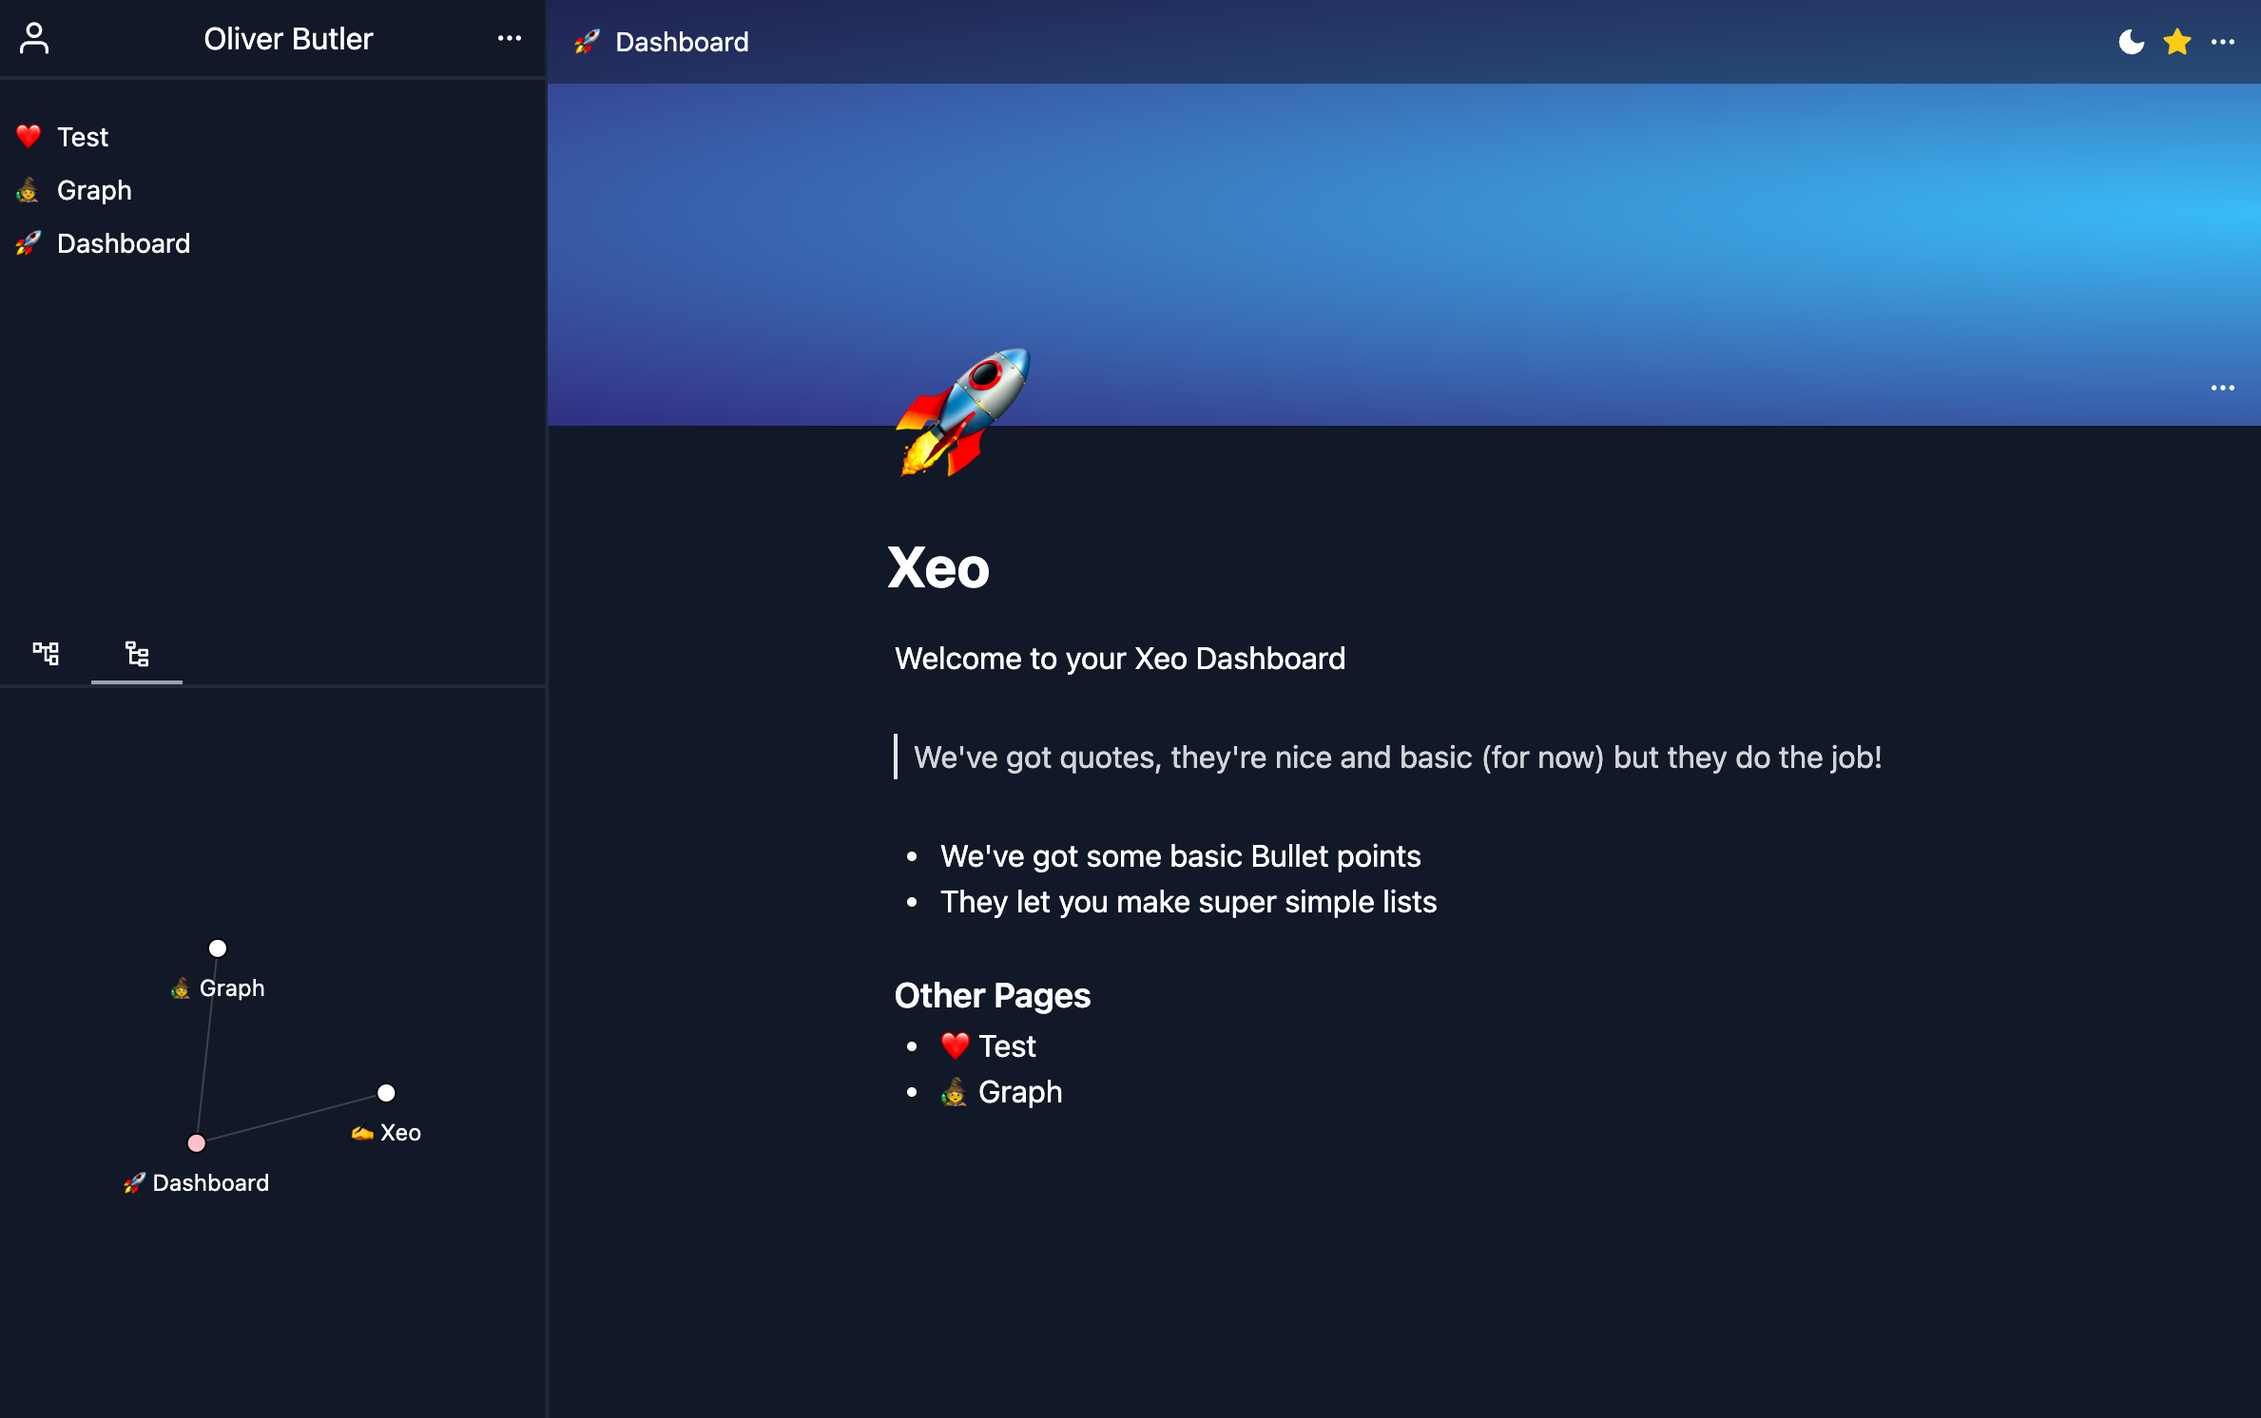
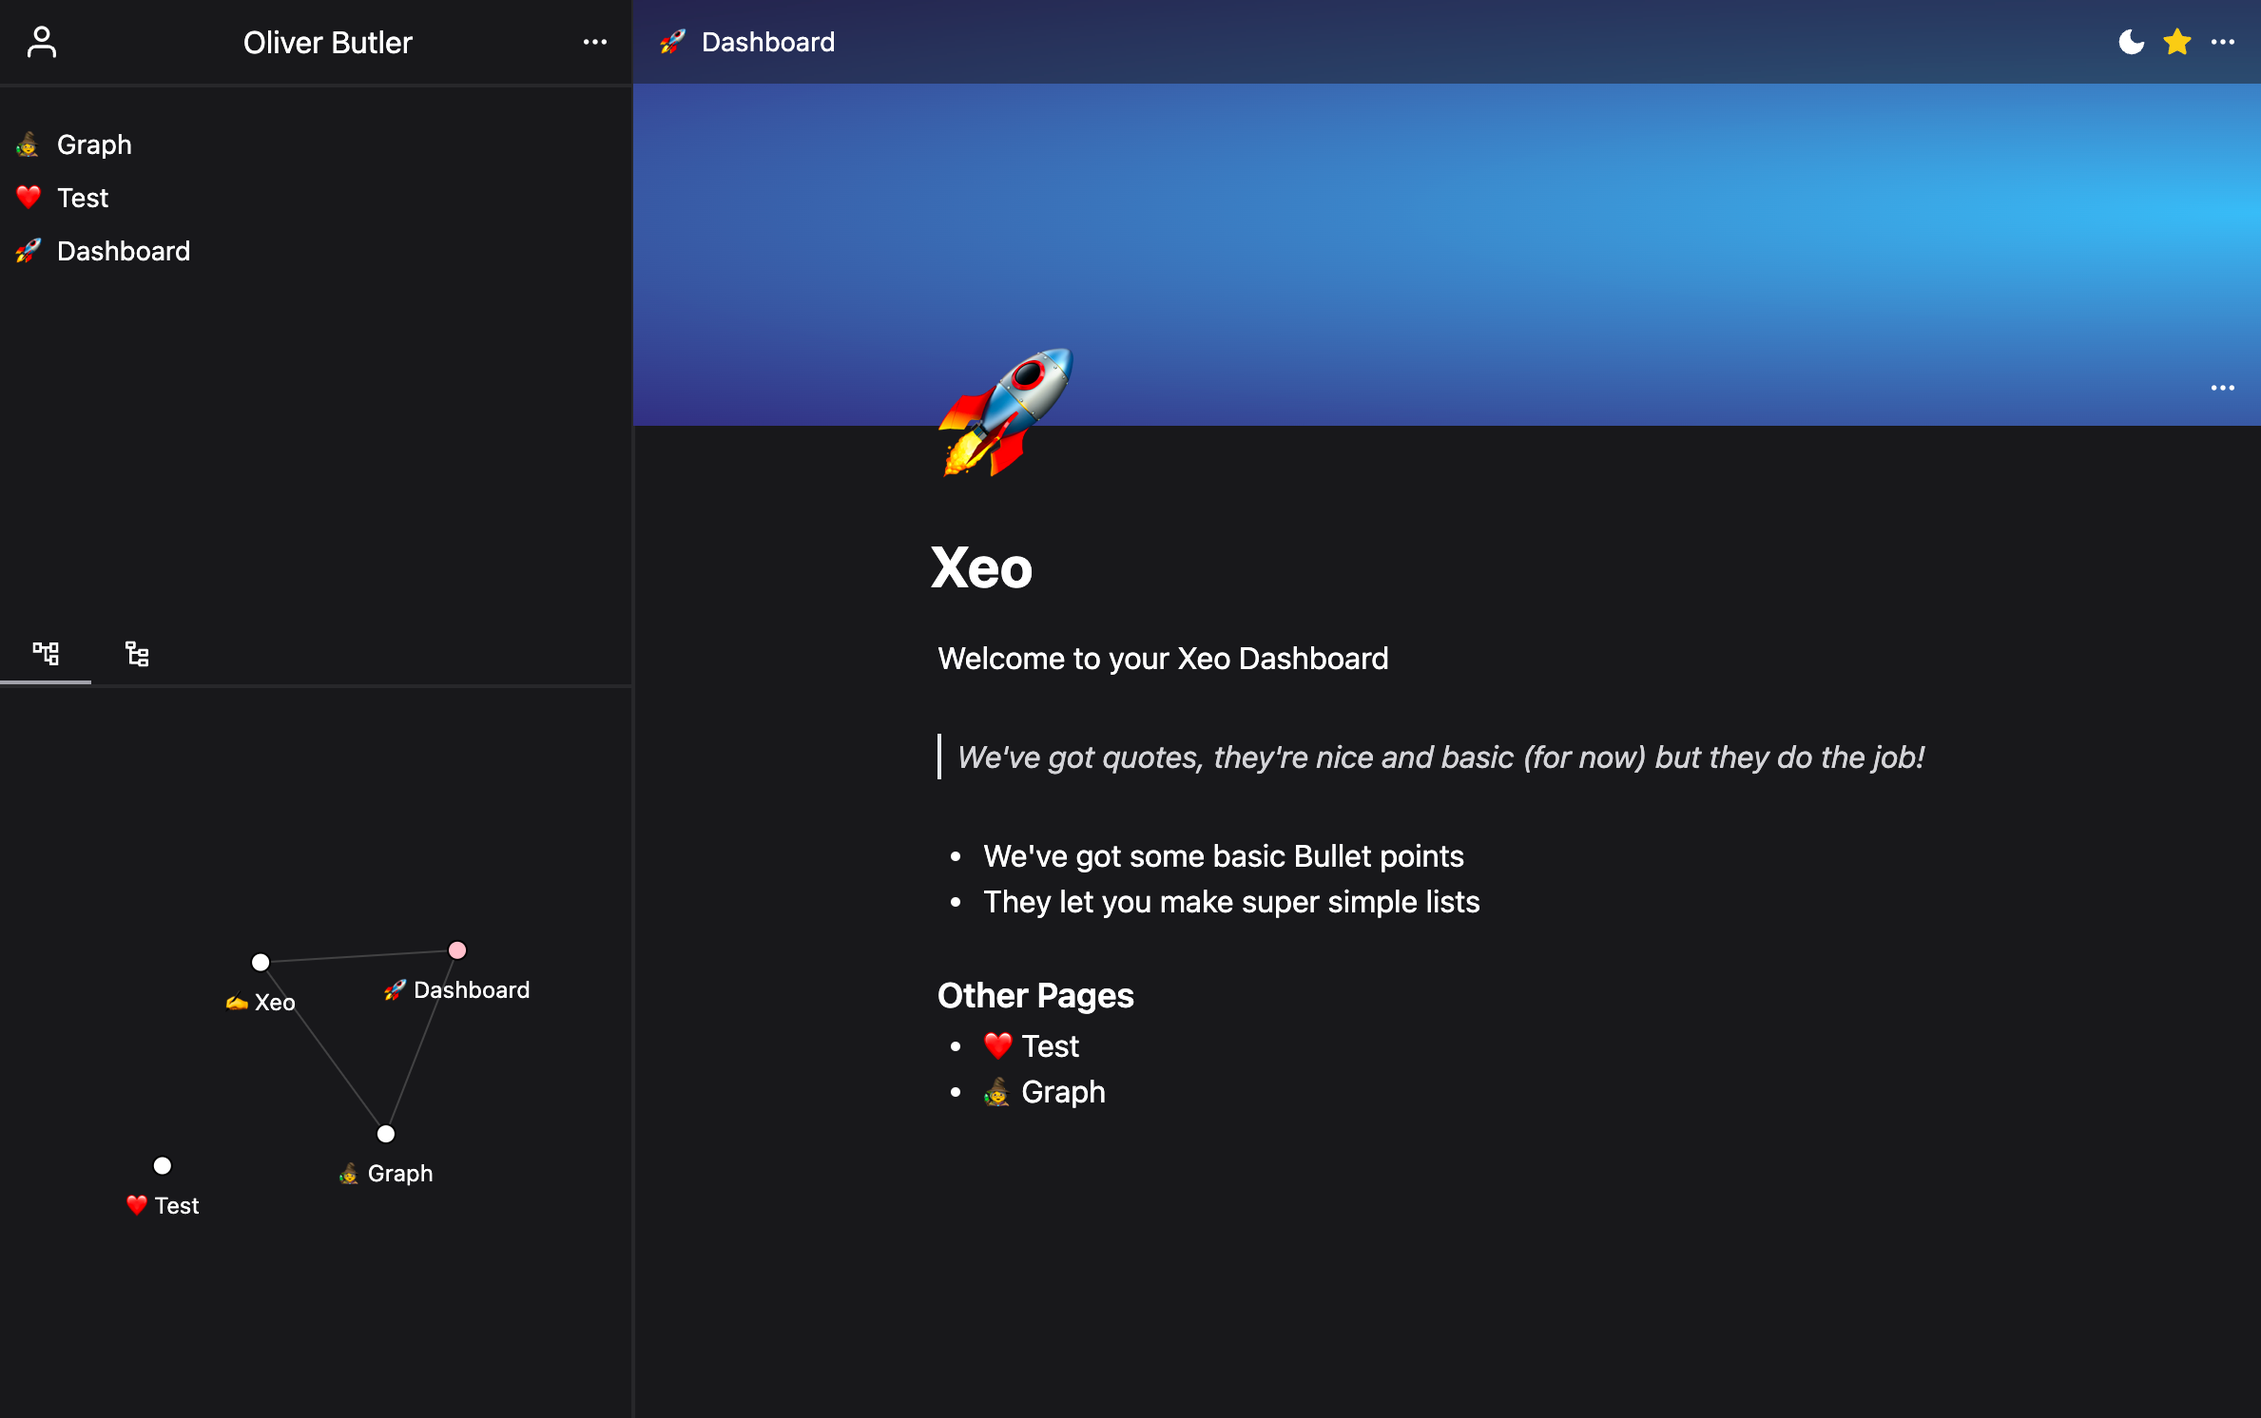
use primary and secondary everywhere

diff --git a/apps/client/components/UI/Dropdown/Dropdown.tsx b/apps/client/components/UI/Dropdown/Dropdown.tsx
@@ -1,6 +1,7 @@
 import { Menu, Transition } from '@headlessui/react';
 import classNames from 'classnames';
 import { Fragment } from 'react';
+import { Clickable } from '../Clickable/Clickable';
 
 type DropdownItem = {
   text: string;
@@ -35,7 +36,7 @@ export const Dropdown: React.FunctionComponent<Props> = ({
       >
         <Menu.Items
           className={classNames(
-            'w-44 bg-white dark:bg-neutral-900 divide-y divide-gray-100 rounded-md shadow-lg ring-1 ring-black ring-opacity-5 focus:outline-none py-1 z-50 ',
+            'w-44 bg-white dark:bg-dark-900 divide-y divide-dark-100 rounded-md shadow-lg ring-1 ring-black ring-opacity-5 focus:outline-none py-1 z-50 ',
             { 'absolute left-1': showDirection === 'left' },
             { 'absolute right-1': showDirection === 'right' },
             className
@@ -49,14 +50,15 @@ export const Dropdown: React.FunctionComponent<Props> = ({
                   onClick={item.onClick}
                 >
                   {({ active }) => (
-                    <a
-                      className={classNames(
-                        'cursor-pointer hover:bg-gray-100rounded-sm flex items-center w-full px-2 py-1 text-sm text-gray-800 dark:text-white',
-                        { 'bg-gray-100': active }
-                      )}
-                    >
-                      <span className="mr-2">{item.logo}</span> {item.text}
-                    </a>
+                    <Clickable active={active}>
+                      <a
+                        className={classNames(
+                          'flex items-center w-full px-2 py-1 text-sm'
+                        )}
+                      >
+                        <span className="mr-2">{item.logo}</span> {item.text}
+                      </a>
+                    </Clickable>
                   )}
                 </Menu.Item>
               ))}

diff --git a/apps/client/components/UI/Popover/Popover.tsx b/apps/client/components/UI/Popover/Popover.tsx
@@ -40,7 +40,7 @@ export const Popover: React.FunctionComponent<Props> = ({
           >
             <PopoverComponent.Panel
               className={classNames(
-                ' bg-white dark:bg-neutral-900 rounded-md shadow-lg ring-1 ring-black ring-opacity-5 focus:outline-none py-1',
+                ' bg-white dark:bg-dark-900 rounded-md shadow-lg ring-1 ring-black ring-opacity-5 focus:outline-none py-1',
                 { 'absolute left-1': direction === 'right' },
                 { 'absolute right-1': direction === 'left' }
               )}
@@ -49,7 +49,7 @@ export const Popover: React.FunctionComponent<Props> = ({
               {input && (
                 <input
                   className={classNames(
-                    'my-1 mx-2 px-2 py-1 bg-gray-100 dark:bg-neutral-900 dark:text-white text-sm rounded-md w-56',
+                    'my-1 mx-2 px-2 py-1 bg-dark-100 dark:bg-dark-900 dark:text-white text-sm rounded-md w-56',
                     input.className
                   )}
                   {...input}
@@ -60,7 +60,7 @@ export const Popover: React.FunctionComponent<Props> = ({
                   <a
                     key={item.title}
                     className={classNames(
-                      'cursor-pointer hover:bg-gray-100rounded-sm flex items-center w-full px-2 py-1 text-sm text-gray-800 hover:bg-gray-100'
+                      'cursor-pointer hover:bg-dark-100rounded-sm flex items-center w-full px-2 py-1 text-sm text-dark-800 hover:bg-dark-100'
                     )}
                   >
                     <span className="mr-2">{item.icon}</span> {item.title}

diff --git a/apps/client/components/Database/Database.tsx b/apps/client/components/Database/Database.tsx
@@ -51,21 +51,21 @@ export const Database: React.FunctionComponent<Props> = ({ database }) => {
       <div className="flex flex-row justify-between mb-2">
         {/* <DatabaseTitle database={database} /> */}
         <div className="flex flex-row items-center">
-          <Clickable className="hover:bg-gray-300">
+          <Clickable className="hover:bg-dark-300">
             <FiPlus />
           </Clickable>
-          <Clickable className="hover:bg-gray-300">
+          <Clickable className="hover:bg-dark-300">
             <FiMoreHorizontal />
           </Clickable>
         </div>
       </div>
-      <table className="min-w-full divide-y divide-gray-200 border-y">
+      <table className="min-w-full divide-y divide-dark-200 border-y">
         <thead>
           <tr className="divide-x">
             {columns.map((column) => (
               <th
                 scope="col"
-                className="px-4 py-1 text-left font-normal capitalize hover:bg-gray-100 cursor-pointer select-none"
+                className="px-4 py-1 text-left font-normal capitalize hover:bg-dark-100 cursor-pointer select-none"
                 key={column.name}
               >
                 {column.name}
@@ -73,7 +73,7 @@ export const Database: React.FunctionComponent<Props> = ({ database }) => {
             ))}
           </tr>
         </thead>
-        <tbody className="divide-y  divide-gray-200">
+        <tbody className="divide-y  divide-dark-200">
           {testData.map((item) => (
             <tr key={item.id} className="divide-x">
               {columns.map((column) => (

diff --git a/apps/client/components/Sidebar/SidebarGraphTabs/SidebarGraphTabs.tsx b/apps/client/components/Sidebar/SidebarGraphTabs/SidebarGraphTabs.tsx
@@ -1,4 +1,5 @@
 import { Tab } from '@headlessui/react';
+import { Clickable } from 'components/UI/Clickable/Clickable';
 import { AnimatePresence, motion } from 'framer-motion';
 import { useLocalStorage } from 'hooks/useLocalStorage';
 import { MdOutlineAccountTree } from 'react-icons/md';
@@ -13,21 +14,22 @@ export const SidebarGraphTabs: React.FunctionComponent = () => {
 
   return (
     <Tab.Group defaultIndex={defaultIndex} onChange={(x) => setDefaultIndex(x)}>
-      <Tab.List className="flex flex-row border-b-gray-200 border-b-2 dark:border-gray-800">
+      <Tab.List className="flex flex-row border-b-dark-200 border-b-2 dark:border-dark-800">
         <AnimatePresence>
           {[<MdOutlineAccountTree key="local" />, <RiNodeTree key="all" />].map(
             (item, index) => (
               <Tab
+                as={Clickable}
                 key={index}
                 className="p-2 relative w-12 flex items-center justify-center"
               >
                 {({ selected }) => (
                   <>
-                    {item}
+                    <div className="mb-1">{item}</div>
                     {selected && (
                       <motion.div
                         layoutId="underline"
-                        className="w-full h-0.5 bg-gray-400 absolute bottom-0"
+                        className="w-full h-0.5 bg-dark-400 absolute bottom-0"
                       />
                     )}
                   </>

diff --git a/apps/client/components/Navbar/Navbar.tsx b/apps/client/components/Navbar/Navbar.tsx
@@ -29,15 +29,15 @@ export const Navbar: React.FunctionComponent = () => {
   return (
     <nav
       id="navbar"
-      className="p-2 flex flex-row  justify-between bg-opacity-50 bg-white dark:bg-gray-900 dark:bg-opacity-50 absolute w-full z-50 backdrop-blur-sm filter"
+      className="p-2 flex flex-row  justify-between bg-opacity-50 bg-white dark:bg-dark-900 dark:bg-opacity-50 absolute w-full z-50 backdrop-blur-sm filter"
     >
       <div className="flex flex-row items-center">
         <Clickable>
-          <a className="mx-0.5 text-gray-700 dark:text-white text-sm flex items-center ">
+          <a className="mx-0.5 text-dark-700 dark:text-white text-sm flex items-center ">
             <span>{page.emoji}</span>
             <span
               className={classNames('ml-2', {
-                'text-gray-300 dark:text-white': !page.titlePlainText,
+                'text-dark-300 dark:text-white': !page.titlePlainText,
               })}
             >
               {page.titlePlainText || 'Untitled'}
@@ -47,7 +47,7 @@ export const Navbar: React.FunctionComponent = () => {
       </div>
 
       <div className="flex flex-row items-center">
-        {isSyncing && <Loader className="text-gray-400 h-3" />}
+        {isSyncing && <Loader className="text-dark-400 h-3" />}
         <DarkModeButton />
         <FavouriteButton pageId={currentPageId} />
         <Dropdown

diff --git a/apps/client/components/Sidebar/Sidebar.tsx b/apps/client/components/Sidebar/Sidebar.tsx
@@ -22,19 +22,19 @@ export const Sidebar = () => {
       onSetWidth={setDefaultWidth}
       minWindowWidth={150}
       dragHandleWidth={2}
-      className="bg-gray-50 dark:bg-transparent h-full"
-      dragHandleClassName="bg-gray-50 dark:bg-gray-800 hover:bg-gray-200"
+      className="bg-dark-50 dark:bg-transparent h-full"
+      dragHandleClassName="bg-dark-50 dark:bg-dark-800 hover:bg-dark-200"
     >
       <div className="dark:bg-transparent flex flex-col justify-between h-full">
         <div>
           {user ? <UserRow user={user} /> : <p>Not logged in</p>}
           {user?.pages?.map((page) => (
             <Link href={`/page/${page.id}`} key={page.id} passHref={true}>
-              <SidebarItem className="text-gray-700 dark:text-white text-sm flex items-center">
+              <SidebarItem className="text-dark-700 dark:text-white text-sm flex items-center">
                 <span>{page.emoji}</span>
                 <span
                   className={classNames('ml-2', {
-                    'text-gray-300': !page.titlePlainText,
+                    'text-dark-300': !page.titlePlainText,
                   })}
                 >
                   {page.titlePlainText || 'Untitled'}

diff --git a/apps/client/components/Sidebar/UserRow/UserRow.tsx b/apps/client/components/Sidebar/UserRow/UserRow.tsx
@@ -24,23 +24,25 @@ export const UserRow: React.FunctionComponent<Props> = ({ user }) => {
   };
 
   return (
-    <div className="flex flex-row items-center w-full justify-between p-2 mb-4 dark:border-gray-800  border-b-2">
-      {user.avatar ? (
-        <Image
-          className="w-5 h-5"
-          src={user.avatar}
-          alt={`${user.firstName} ${user.lastName}`}
-        />
-      ) : (
-        <FiUser className="w-5 h-5 mr-3" />
-      )}
+    <div className="flex flex-row items-center w-full justify-between p-2 mb-4 dark:border-dark-800  border-b-2">
+      <Clickable>
+        {user.avatar ? (
+          <Image
+            className="w-5 h-5"
+            src={user.avatar}
+            alt={`${user.firstName} ${user.lastName}`}
+          />
+        ) : (
+          <FiUser className="w-5 h-5" />
+        )}
+      </Clickable>
       <span className="ml-2">
         {user.firstName} {user.lastName}
       </span>
       <Dropdown
         showDirection="left"
         button={
-          <Clickable className="hover:bg-gray-400">
+          <Clickable>
             <FiMoreHorizontal />
           </Clickable>
         }

diff --git a/apps/client/components/UI/Clickable/Clickable.tsx b/apps/client/components/UI/Clickable/Clickable.tsx
@@ -1,17 +1,24 @@
 import classNames from 'classnames';
-import { DetailedHTMLProps, HTMLAttributes } from 'react';
+import { DetailedHTMLProps, HTMLAttributes, useRef } from 'react';
 
-type Props = DetailedHTMLProps<HTMLAttributes<HTMLDivElement>, HTMLDivElement>;
+type Props = DetailedHTMLProps<
+  HTMLAttributes<HTMLDivElement>,
+  HTMLDivElement
+> & {
+  active?: boolean;
+};
 
 export const Clickable: React.FunctionComponent<Props> = ({
   children,
   className,
+  active,
   ...divProps
 }) => {
   return (
     <div
       className={classNames(
-        'cursor-pointer hover:bg-opacity-50 dark:hover:bg-opacity-50 hover:bg-gray-50 dark:hover:bg-gray-600 p-1 rounded-sm ',
+        'cursor-pointer hover:bg-opacity-50 dark:hover:bg-opacity-50 hover:bg-dark-50 dark:hover:bg-dark-600 p-1 rounded-sm',
+        { 'dark:bg-dark-600 bg-opacity-50 bg-dark-50': active },
         className
       )}
       {...divProps}

diff --git a/apps/site/components/Background/Background.tsx b/apps/site/components/Background/Background.tsx
@@ -5,12 +5,12 @@ export const Background: React.FunctionComponent = () => {
       className="filter blur-3xl absolute top-0 left-0 w-screen h-screen opacity-20 animate-blob overflow-x-hidden"
     >
       <div
-        style={{ height: '80vh' }}
-        className="absolute left-1/2 top-0 w-60 scale-100 bg-primary-300 rounded-full"
+        style={{ height: '100vh' }}
+        className="absolute right-1/3 w-1/6 -rotate-45 bg-secondary-200 opacity-50 rounded-full "
       ></div>
       <div
-        style={{ height: '100vh' }}
-        className="absolute right-1/3 top-0 w-40 scale-100 -rotate-45 bg-secondary-300 rounded-full "
+        style={{ height: '80vh' }}
+        className="absolute left-1/2 w-1/6  bg-primary-400 rounded-full"
       ></div>
     </div>
   );

diff --git a/apps/client/components/Blocks/BlockHandle/HandleButton/HandleButton.tsx b/apps/client/components/Blocks/BlockHandle/HandleButton/HandleButton.tsx
@@ -31,7 +31,7 @@ export const HandleButton: React.FunctionComponent<Props> = ({ block }) => {
           whileHover={{ scale: 1.1 }}
           whileTap={{ scale: 0.8 }}
           transition={{ duration: 0.3 }}
-          className="my-auto select-none hover:bg-gray-100 rounded-md opacity-0 group-hover:opacity-100 p-0.5 cursor-pointer text-gray-400 stroke-current"
+          className="my-auto select-none hover:bg-dark-100 rounded-md opacity-0 group-hover:opacity-100 p-0.5 cursor-pointer text-dark-400 stroke-current"
         >
           <FiMoreHorizontal />
         </motion.div>

diff --git a/apps/client/components/Blocks/BlockHandle/AddButton/AddButton.tsx b/apps/client/components/Blocks/BlockHandle/AddButton/AddButton.tsx
@@ -51,7 +51,7 @@ export const AddButton: React.FunctionComponent<Props> = ({ block }) => {
           whileHover={{ scale: 1.1 }}
           whileTap={{ scale: 0.8 }}
           transition={{ duration: 0.3 }}
-          className="my-auto select-none hover:bg-gray-100 rounded-md opacity-0 group-hover:opacity-100 p-0.5 cursor-pointer text-gray-400 stroke-current"
+          className="my-auto select-none hover:bg-dark-100 rounded-md opacity-0 group-hover:opacity-100 p-0.5 cursor-pointer text-dark-400 stroke-current"
         >
           <FiPlus />
         </motion.div>

diff --git a/apps/client/components/Sidebar/SidebarItem/SidebarItem.tsx b/apps/client/components/Sidebar/SidebarItem/SidebarItem.tsx
@@ -11,7 +11,7 @@ export const SidebarItem = forwardRef<HTMLDivElement, Props>(
       <div
         ref={ref}
         className={classNames(
-          'hover:bg-gray-200 dark:hover:bg-opacity-50 dark:hover:bg-gray-600 py-1 px-2 cursor-pointer ',
+          'hover:bg-dark-200 dark:hover:bg-opacity-50 dark:hover:bg-dark-600 py-1 px-2 cursor-pointer ',
           className
         )}
         {...divProps}
